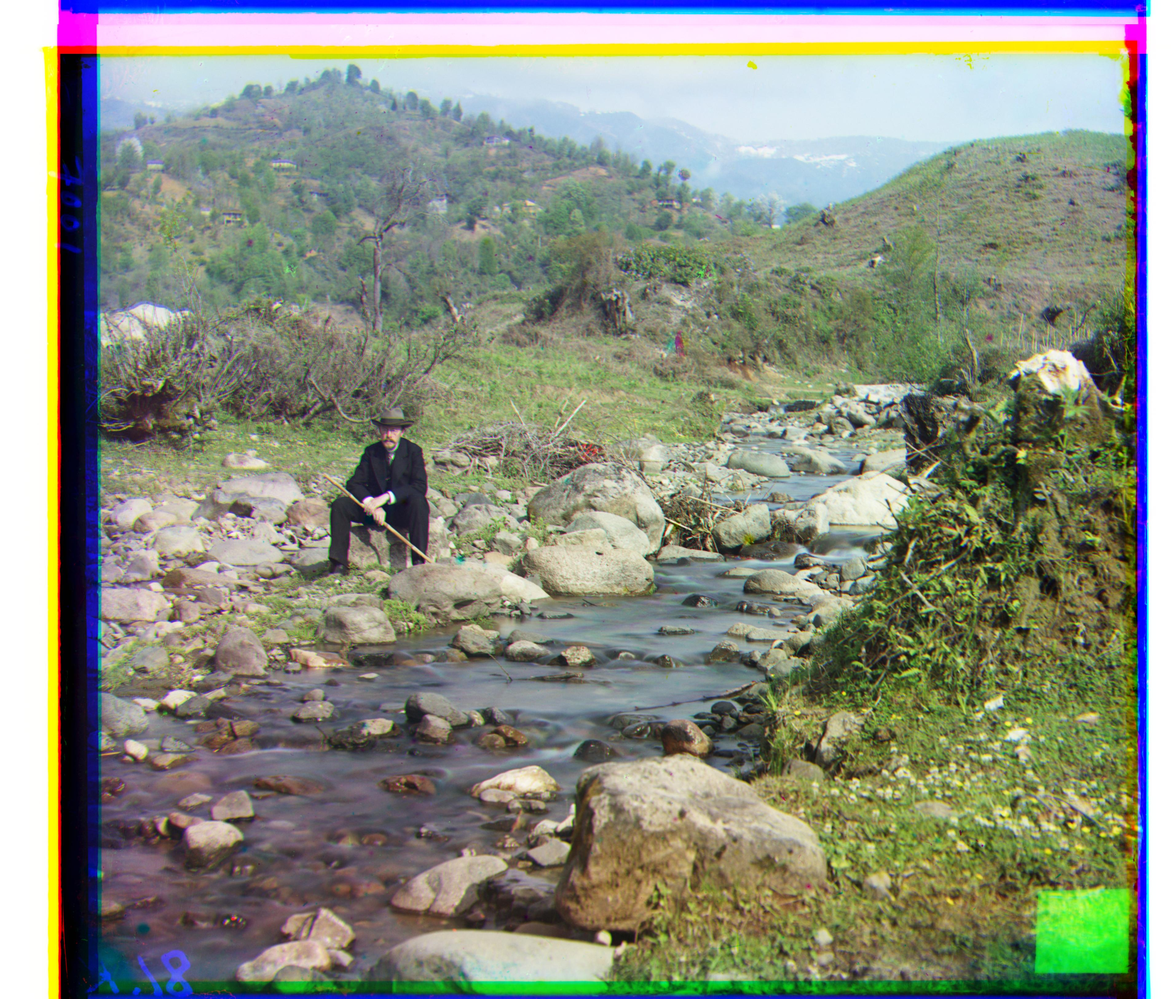
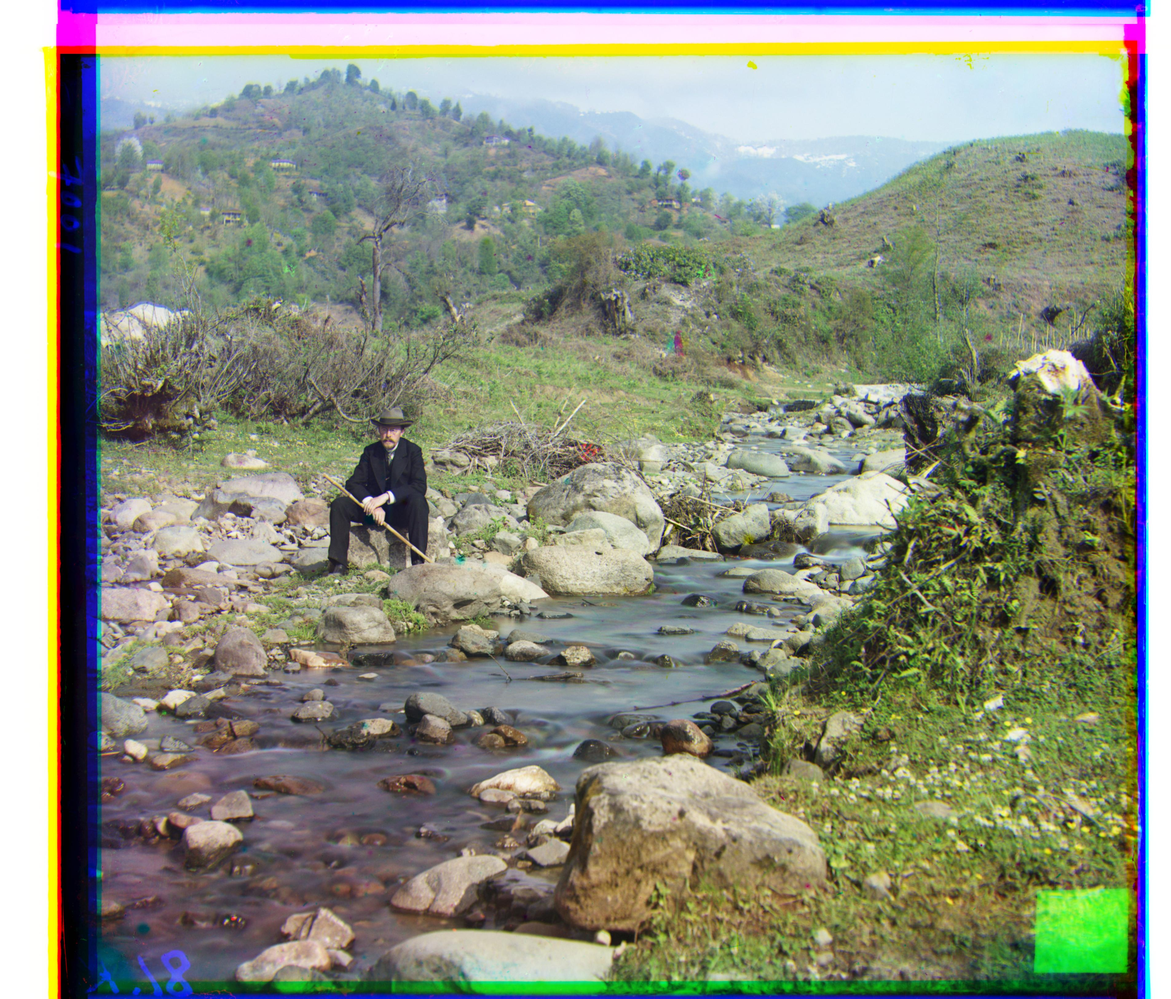
proj1 done v2

diff --git a/projects/project1.html b/projects/project1.html
@@ -126,13 +126,13 @@
                 <figure class="gallery-item">
                     <img src="https://Yiqinh.github.io/pictures/proj_1/church.jpg" class="gallery-img">
                     <h4>Church</h4>
-                    <figcaption> G: (25, -12) R: (58, -6) </figcaption>
+                    <figcaption> G: (25, -11) R: (58, -5) </figcaption>
                 </figure>
 
                 <figure class="gallery-item">
                     <img src="https://Yiqinh.github.io/pictures/proj_1/emir.jpg" class="gallery-img">
                     <h4>Emir</h4>
-                    <figcaption> G: (49, 24) R: (104, 55) </figcaption>
+                    <figcaption> G: (49, 24) R: (104, 44) </figcaption>
                 </figure>
 
                 <figure class="gallery-item">
@@ -144,7 +144,7 @@
                 <figure class="gallery-item">
                     <img src="https://Yiqinh.github.io/pictures/proj_1/icon.jpg" class="gallery-img">
                     <h4>Icon</h4>
-                    <figcaption> G: (40, 17) R: (89, 23) </figcaption>
+                    <figcaption> G: (41, 17) R: (89, 23) </figcaption>
                 </figure>
 
                 <figure class="gallery-item">
@@ -162,7 +162,7 @@
                 <figure class="gallery-item">
                     <img src="https://Yiqinh.github.io/pictures/proj_1/lugano.jpg" class="gallery-img">
                     <h4>Lugano</h4>
-                    <figcaption> G: (41, -17) R: (92, -29) </figcaption>
+                    <figcaption> G: (41, -16) R: (92, -28) </figcaption>
                 </figure>
 
                 <figure class="gallery-item">
@@ -174,7 +174,7 @@
                 <figure class="gallery-item">
                     <img src="https://Yiqinh.github.io/pictures/proj_1/self_portrait.jpg" class="gallery-img">
                     <h4>Self Portrait</h4>
-                    <figcaption> G: (79, 29) R: (175, 34) </figcaption>
+                    <figcaption> G: (78, 26) R: (175, 34) </figcaption>
                 </figure>
 
                 <figure class="gallery-item">
